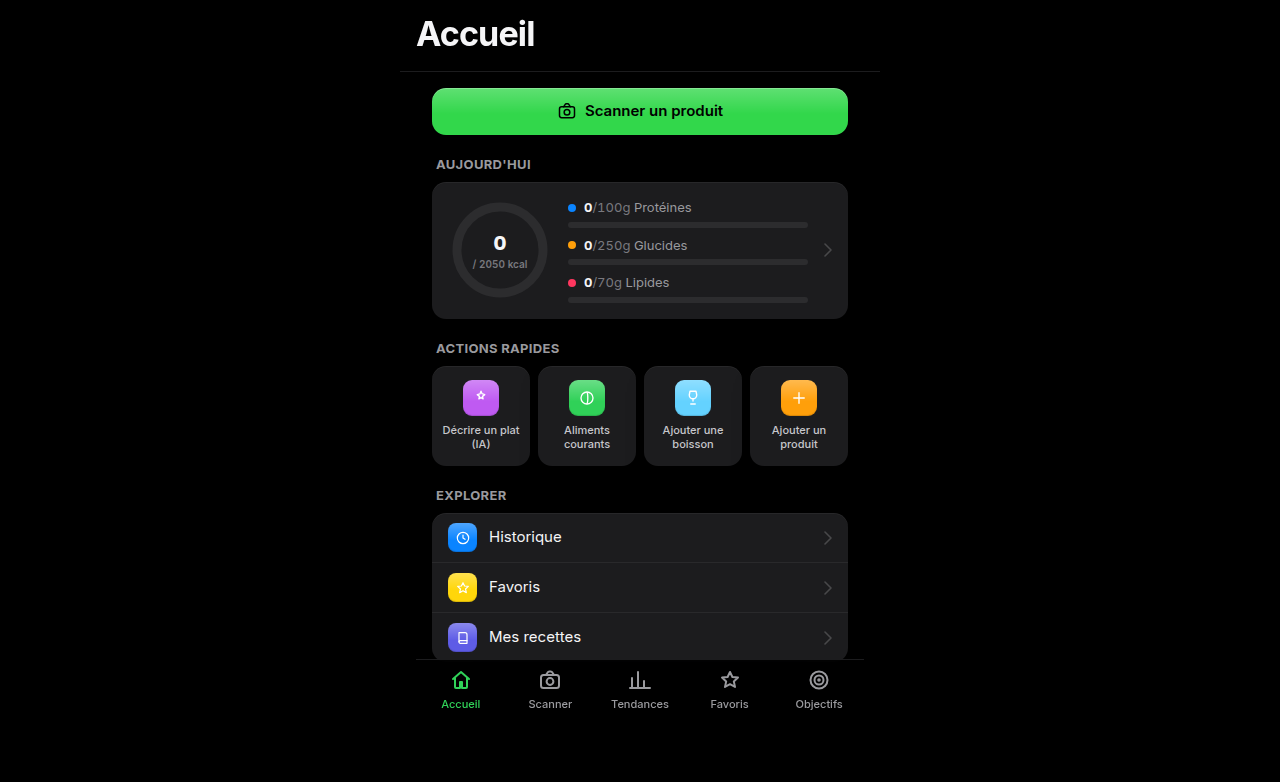
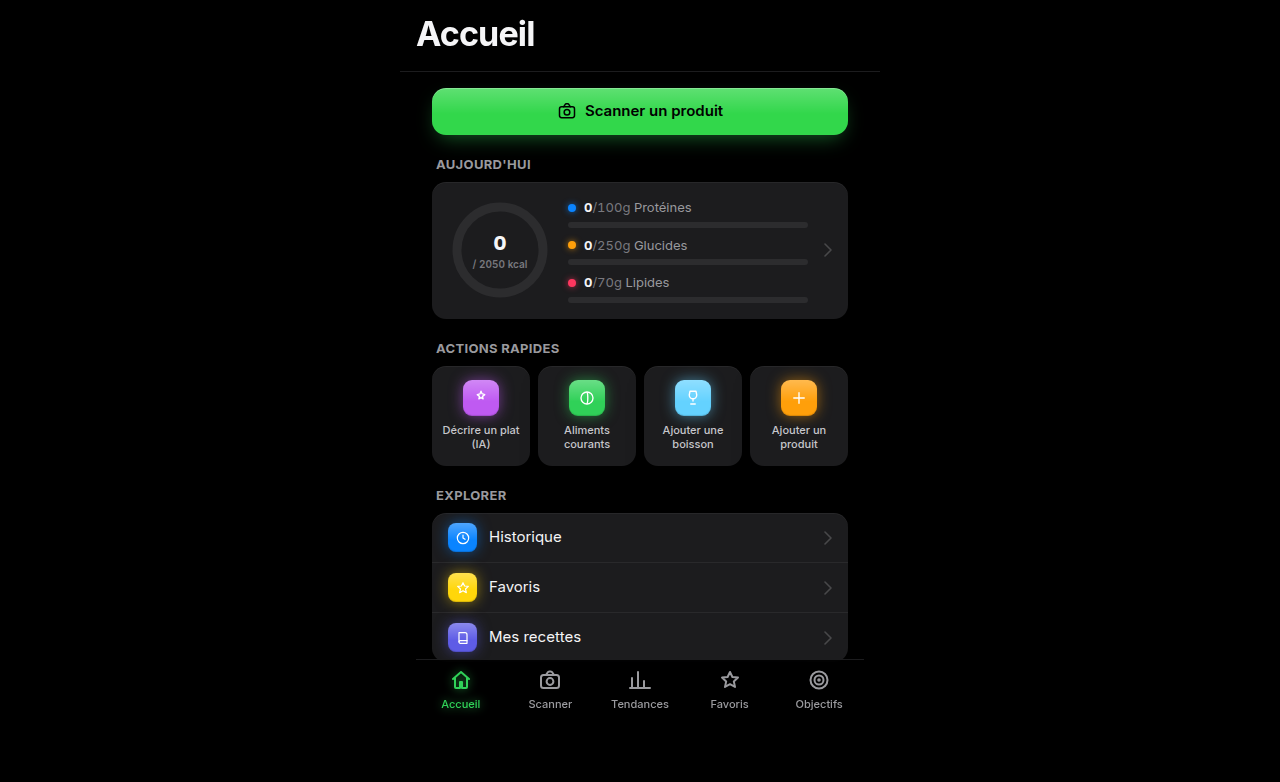
Make colored UI elements pop with tasteful tinted glows
Solid Apple system colors on true black were reading flat rather than
vivid. Add a matching colored glow (not a neon halo) to every colored
surface: the primary button, quick-action/explore icon badges, the
bottom-nav active icon, macro progress bars and legend dots, the
calorie ring, Nutri-Score badges, the homemade-score bar, and the
Trends chart bars.

diff --git a/src/app/page.tsx b/src/app/page.tsx
@@ -8,6 +8,7 @@ import { sumMacros } from "@/lib/macros/calculate";
 import CalorieRing from "@/components/CalorieRing";
 import PageHeader from "@/components/PageHeader";
 import PullToRefresh from "@/components/PullToRefresh";
+import { hexToRgba } from "@/lib/color";
 import {
   IconBook,
   IconCamera,
@@ -88,7 +89,10 @@ export default function HomePage() {
           <div className="grid grid-cols-4 gap-2">
             {QUICK_ACTIONS.map(({ href, label, Icon, color }) => (
               <Link key={href} href={href} className="quick-tile" title={label}>
-                <span className="quick-tile-icon" style={{ backgroundColor: color }}>
+                <span
+                  className="quick-tile-icon"
+                  style={{ backgroundColor: color, "--glow": hexToRgba(color, 0.55) } as React.CSSProperties}
+                >
                   <Icon className="h-[18px] w-[18px] text-white" aria-hidden />
                 </span>
                 <span className="text-[11px] font-medium leading-tight text-slate-300">{label}</span>
@@ -127,7 +131,10 @@ export default function HomePage() {
           <div className="list-group">
             {EXPLORE_LINKS.map(({ href, label, Icon, color }) => (
               <Link key={href} href={href} className="list-row">
-                <span className="row-icon" style={{ backgroundColor: color }}>
+                <span
+                  className="row-icon"
+                  style={{ backgroundColor: color, "--glow": hexToRgba(color, 0.5) } as React.CSSProperties}
+                >
                   <Icon className="h-4 w-4 text-white" aria-hidden />
                 </span>
                 <span className="flex-1 text-[15px] text-slate-100">{label}</span>
@@ -150,7 +157,11 @@ function MacroLegendRow({ color, label, value, goal }: { color: string; label: s
   return (
     <div className="space-y-1">
       <div className="flex items-center gap-2">
-        <span className="h-2 w-2 flex-shrink-0 rounded-full" style={{ background: barColor }} aria-hidden />
+        <span
+          className="h-2 w-2 flex-shrink-0 rounded-full"
+          style={{ background: barColor, boxShadow: `0 0 6px 0 ${hexToRgba(barColor, 0.7)}` }}
+          aria-hidden
+        />
         <span className="text-[13px] tabular-nums">
           <b className="font-bold text-slate-100">{Math.round(value)}</b>
           <span className="text-slate-500">/{Math.round(goal)}g</span>{" "}
@@ -160,7 +171,7 @@ function MacroLegendRow({ color, label, value, goal }: { color: string; label: s
       <div className="h-1.5 w-full overflow-hidden rounded-full bg-slate-700">
         <div
           className="h-full rounded-full transition-all duration-500"
-          style={{ width: `${percent}%`, background: barColor }}
+          style={{ width: `${percent}%`, background: barColor, boxShadow: `0 0 8px 0 ${hexToRgba(barColor, 0.65)}` }}
         />
       </div>
     </div>

diff --git a/src/app/globals.css b/src/app/globals.css
@@ -36,20 +36,21 @@ body {
 
   /* systemGreen is high-luminance (green channel dominates perceived
      brightness), so black text clears contrast by a wide margin where
-     white would not - same call iOS makes on tinted-green fills. iOS
-     buttons stay flat with just a subtle cast shadow, not a tinted glow. */
+     white would not - same call iOS makes on tinted-green fills. A
+     tinted glow (rather than a neutral one) is what makes the accent
+     color itself read as vivid against true black. */
   .btn-primary {
     @apply inline-flex items-center justify-center gap-2 rounded-[14px] bg-green-600 px-4 py-3 font-semibold text-black transition-transform duration-200 active:scale-[0.96] hover:bg-green-500 disabled:opacity-50 disabled:active:scale-100;
     transition-timing-function: var(--ease-spring);
     background-image: linear-gradient(180deg, rgba(255, 255, 255, 0.22), rgba(255, 255, 255, 0) 55%);
     box-shadow:
       inset 0 1px 0 rgba(255, 255, 255, 0.25),
-      0 8px 10px -2px rgba(0, 0, 0, 0.15);
+      0 8px 20px -6px rgba(48, 209, 88, 0.45);
   }
   .btn-primary:active {
     box-shadow:
       inset 0 1px 0 rgba(255, 255, 255, 0.2),
-      0 3px 6px -2px rgba(0, 0, 0, 0.15);
+      0 4px 10px -4px rgba(48, 209, 88, 0.4);
   }
 
   .btn-secondary {
@@ -75,6 +76,7 @@ body {
 
   .nav-link-active {
     @apply text-green-400;
+    filter: drop-shadow(0 0 5px rgba(48, 209, 88, 0.6));
   }
 
   /* ---------- iOS-style page chrome ---------- */
@@ -121,7 +123,9 @@ body {
   .row-icon {
     @apply flex h-[29px] w-[29px] flex-shrink-0 items-center justify-center rounded-[8px] bg-slate-600;
     background-image: linear-gradient(180deg, rgba(255, 255, 255, 0.28), rgba(255, 255, 255, 0) 60%);
-    box-shadow: inset 0 -1px 1px rgba(0, 0, 0, 0.15);
+    box-shadow:
+      inset 0 -1px 1px rgba(0, 0, 0, 0.15),
+      0 0 14px 0 var(--glow, transparent);
   }
 
   .chevron {
@@ -147,6 +151,7 @@ body {
 
   .pill-active {
     @apply bg-green-600 font-semibold text-black;
+    box-shadow: 0 0 12px 0 rgba(48, 209, 88, 0.5);
   }
 
   .pill-inactive {
@@ -182,7 +187,9 @@ body {
   .quick-tile-icon {
     @apply flex h-9 w-9 items-center justify-center rounded-[9px];
     background-image: linear-gradient(180deg, rgba(255, 255, 255, 0.28), rgba(255, 255, 255, 0) 60%);
-    box-shadow: inset 0 -1px 1px rgba(0, 0, 0, 0.15);
+    box-shadow:
+      inset 0 -1px 1px rgba(0, 0, 0, 0.15),
+      0 0 14px 0 var(--glow, transparent);
   }
 }
 

diff --git a/src/components/NutriScoreBadge.tsx b/src/components/NutriScoreBadge.tsx
@@ -1,4 +1,5 @@
 import type { NutriScoreGrade } from "@/lib/types/product";
+import { hexToRgba } from "@/lib/color";
 
 // The neon green ("a") reads brightest with dark text, like a real neon
 // sign; the other grades stay dark backgrounds with white text.
@@ -11,13 +12,25 @@ const COLORS: Record<NutriScoreGrade, string> = {
   unknown: "bg-slate-600 text-white",
 };
 
+// Matches each grade's Tailwind background above, used for a matching glow.
+const GLOW_COLOR: Record<NutriScoreGrade, string | null> = {
+  a: "#32D74B",
+  b: "#65A30D",
+  c: "#EAB308",
+  d: "#EA580C",
+  e: "#DC2626",
+  unknown: null,
+};
+
 export default function NutriScoreBadge({ grade, size = "md" }: { grade: NutriScoreGrade; size?: "sm" | "md" | "lg" }) {
   const dims = size === "lg" ? "h-14 w-14 text-2xl" : size === "sm" ? "h-8 w-8 text-sm" : "h-10 w-10 text-base";
   const label = grade === "unknown" ? "?" : grade.toUpperCase();
+  const glow = GLOW_COLOR[grade];
 
   return (
     <div
       className={`flex ${dims} items-center justify-center rounded-full font-bold ${COLORS[grade]}`}
+      style={glow ? { boxShadow: `0 0 10px 0 ${hexToRgba(glow, 0.55)}` } : undefined}
       title={`Nutri-Score ${label}`}
       aria-label={`Nutri-Score ${label}`}
     >

diff --git a/src/components/HomemadeScoreCard.tsx b/src/components/HomemadeScoreCard.tsx
@@ -1,5 +1,6 @@
 import type { HomemadeScore } from "@/lib/types/product";
-import { SCORE_BAR_COLOR, SCORE_LABEL_COLOR, SCORE_LABEL_TEXT } from "@/lib/scoring/scoreDisplay";
+import { SCORE_BAR_COLOR, SCORE_GLOW_COLOR, SCORE_LABEL_COLOR, SCORE_LABEL_TEXT } from "@/lib/scoring/scoreDisplay";
+import { hexToRgba } from "@/lib/color";
 
 export default function HomemadeScoreCard({ score }: { score: HomemadeScore }) {
   return (
@@ -13,7 +14,10 @@ export default function HomemadeScoreCard({ score }: { score: HomemadeScore }) {
       <div className="progress-track">
         <div
           className={`progress-fill ${SCORE_BAR_COLOR[score.label]}`}
-          style={{ width: `${score.score}%` }}
+          style={{
+            width: `${score.score}%`,
+            boxShadow: `0 0 8px 0 ${hexToRgba(SCORE_GLOW_COLOR[score.label], 0.6)}`,
+          }}
         />
       </div>
       <ul className="mt-2 space-y-1 text-xs text-slate-400">

diff --git a/src/components/TrendsChart.tsx b/src/components/TrendsChart.tsx
@@ -43,6 +43,7 @@ export default function TrendsChart({ days, goal, getValue, mode, ariaLabel }: T
           const value = getValue(day);
           const barHeight = (value / maxValue) * PLOT_HEIGHT;
           const bad = goal > 0 && (mode === "ceiling" ? value > goal : value < goal && value > 0);
+          const barColor = bad ? badColor : GOOD_COLOR;
           return (
             <g key={day.dateKey}>
               <rect
@@ -51,7 +52,8 @@ export default function TrendsChart({ days, goal, getValue, mode, ariaLabel }: T
                 width={barWidth}
                 height={value > 0 ? Math.max(barHeight, 2) : 0}
                 rx={2}
-                fill={bad ? badColor : GOOD_COLOR}
+                fill={barColor}
+                style={value > 0 ? { filter: `drop-shadow(0 0 4px ${barColor}99)` } : undefined}
               />
               <text
                 x={i * slotWidth + slotWidth / 2}

diff --git a/tests/unit/color.test.ts b/tests/unit/color.test.ts
@@ -1,0 +1,17 @@
+import { describe, expect, it } from "vitest";
+import { hexToRgba } from "@/lib/color";
+
+describe("hexToRgba", () => {
+  it("converts a hex color to rgba with the given alpha", () => {
+    expect(hexToRgba("#30D158", 0.5)).toBe("rgba(48, 209, 88, 0.5)");
+  });
+
+  it("handles hex without a leading #", () => {
+    expect(hexToRgba("FF453A", 0.4)).toBe("rgba(255, 69, 58, 0.4)");
+  });
+
+  it("handles alpha 0 and 1", () => {
+    expect(hexToRgba("#000000", 0)).toBe("rgba(0, 0, 0, 0)");
+    expect(hexToRgba("#FFFFFF", 1)).toBe("rgba(255, 255, 255, 1)");
+  });
+});

diff --git a/src/components/CalorieRing.tsx b/src/components/CalorieRing.tsx
@@ -28,7 +28,10 @@ export default function CalorieRing({ value, goal, size = 104 }: CalorieRingProp
           strokeLinecap="round"
           strokeDasharray={circumference}
           strokeDashoffset={offset}
-          style={{ transition: "stroke-dashoffset 0.5s ease" }}
+          style={{
+            transition: "stroke-dashoffset 0.5s ease",
+            filter: `drop-shadow(0 0 5px ${activeColor}99)`,
+          }}
         />
       </svg>
       <div className="absolute inset-0 flex flex-col items-center justify-center">

diff --git a/src/lib/scoring/scoreDisplay.ts b/src/lib/scoring/scoreDisplay.ts
@@ -24,3 +24,12 @@ export const SCORE_BAR_COLOR: Record<HomemadeScore["label"], string> = {
   mediocre: "bg-orange-500",
   mauvais: "bg-red-500",
 };
+
+/** Hex equivalents of SCORE_BAR_COLOR, for a matching glow shadow. */
+export const SCORE_GLOW_COLOR: Record<HomemadeScore["label"], string> = {
+  excellent: "#30D158",
+  bon: "#84CC16",
+  moyen: "#EAB308",
+  mediocre: "#F97316",
+  mauvais: "#EF4444",
+};

diff --git a/src/lib/color.ts b/src/lib/color.ts
@@ -1,0 +1,8 @@
+/** Converts a `#rrggbb` hex color to an `rgba(...)` string at the given alpha, for glow shadows. */
+export function hexToRgba(hex: string, alpha: number): string {
+  const clean = hex.replace("#", "");
+  const r = parseInt(clean.slice(0, 2), 16);
+  const g = parseInt(clean.slice(2, 4), 16);
+  const b = parseInt(clean.slice(4, 6), 16);
+  return `rgba(${r}, ${g}, ${b}, ${alpha})`;
+}
